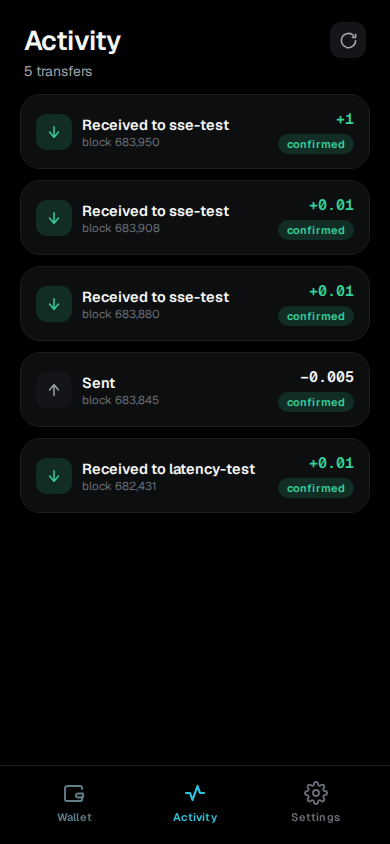
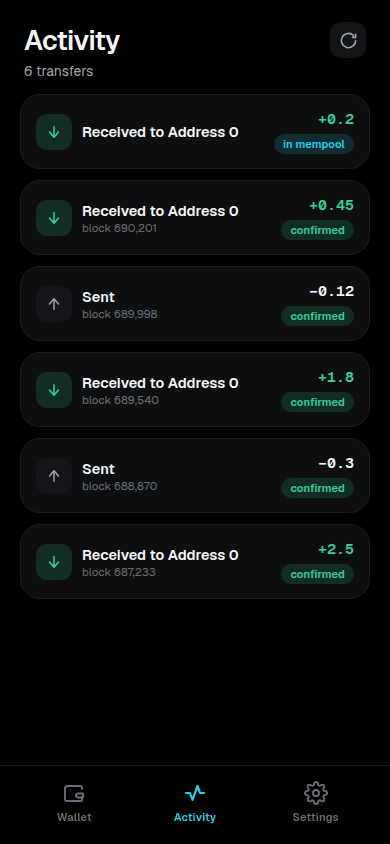
v0.5.0: Seoul default, anonymous indexer, bilingual screenshot gallery
- Settings: indexer modal placeholder now points at the Seoul default
  (64.176.231.198:9335), matching the new bundled node + indexer.
- devmock: serve realistic mock get_status / get_address_history /
  get_address_mempool / get_transaction so browser dev mode renders a
  populated wallet + a From/To Activity feed (dev-only; never ships in a
  real Tauri build).
- README: refresh the screen gallery and add a full English + 简体中文
  set, showing the indexer-backed Activity (From/To) and the live
  EN / 中文 language switch.
- Bump to v0.5.0.

diff --git a/src/lib/devmock.ts b/src/lib/devmock.ts
@@ -558,13 +558,63 @@ export const devmock = {
 
       case "get_status":
         return {
-          version: "dev-mock",
+          version: "1.10.0",
           uptime_secs: 0,
           wallet_count: s.addresses.length,
           in_flight_transfers: 0,
           in_flight_utxos: 0,
+          // New field shape (upstream_ok / upstream_nodes / tip) the Settings
+          // screen reads. A healthy, synced dev daemon.
+          upstream_ok: true,
+          upstream_nodes: [s.nodeRpc],
+          tip: { height: 690_414, block_id: fakeHex("tip", 64) },
+          // Legacy nested shape kept for any older caller.
           upstream: { url: s.nodeRpc, mode: "dev-mock" },
         };
+
+      case "get_address_history": {
+        // Curated confirmed history for the FIRST address so the Activity feed
+        // renders a realistic received/sent mix with From/To counterparties in
+        // dev mode (the real indexer isn't reachable here). Other addresses
+        // return empty so the aggregate isn't double-counted.
+        const p = params as { address: string };
+        const first = s.addresses[0]?.address;
+        if (!first || p.address !== first) return { history: [] };
+        const peer = (seed: string) => fakeHex(`peer-${seed}`, 64);
+        const tx = (seed: string) => fakeHex(`tx-${seed}`, 64);
+        const amt = (exfer: number) => Math.round(exfer * EXFER_UNIT);
+        return {
+          history: [
+            { block_height: 690_201, tx_id: tx("a"), amount: amt(0.45), direction: "output", is_coinbase: false, counterparties: [peer("alice")] },
+            { block_height: 689_998, tx_id: tx("b"), amount: amt(0.12), direction: "input", is_coinbase: false, counterparties: [peer("bob")] },
+            { block_height: 689_540, tx_id: tx("c"), amount: amt(1.80), direction: "output", is_coinbase: false, counterparties: [peer("carol"), peer("dave")] },
+            { block_height: 688_870, tx_id: tx("d"), amount: amt(0.30), direction: "input", is_coinbase: false, counterparties: [peer("erin")] },
+            { block_height: 687_233, tx_id: tx("e"), amount: amt(2.50), direction: "output", is_coinbase: false, counterparties: [peer("frank")] },
+          ],
+        };
+      }
+
+      case "get_address_mempool": {
+        // One live incoming pending tx on the first address — exercises the
+        // "in mempool" pill in the feed.
+        const p = params as { address: string };
+        const first = s.addresses[0]?.address;
+        const base = { address: p.address, tip_height: 690_414 };
+        if (!first || p.address !== first) return { ...base, mempool: [] };
+        return {
+          ...base,
+          mempool: [
+            { tx_id: fakeHex("tx-pending", 64), received: [{ output_index: 0, value: Math.round(0.2 * EXFER_UNIT) }] },
+          ],
+        };
+      }
+
+      case "get_transaction": {
+        // The pending tx reads as in-mempool; every other tx as confirmed.
+        const p = params as { tx_id: string };
+        if (p.tx_id === fakeHex("tx-pending", 64)) return { in_mempool: true };
+        return { in_mempool: false, block_height: 690_000 };
+      }
 
       case "get_balance": {
         const p = params as { address: string };

diff --git a/src/components/Settings.tsx b/src/components/Settings.tsx
@@ -772,7 +772,7 @@ function ChangeIndexerModal({
           className="field mono"
           value={url}
           onChange={(e) => setUrl(e.target.value)}
-          placeholder="http://198.13.38.245:9335"
+          placeholder="http://64.176.231.198:9335"
         />
       </Field>
     </Modal>

diff --git a/README.md b/README.md
@@ -26,23 +26,51 @@ bloat), a pure-black canvas with a single cyan accent, and Geist / Geist Mono.
 <table>
   <tr>
     <td align="center"><img src="docs/screenshots/wallet.png" width="160" alt="Wallet — balance and addresses" /></td>
+    <td align="center"><img src="docs/screenshots/activity.png" width="160" alt="Activity — From/To, on-chain history" /></td>
     <td align="center"><img src="docs/screenshots/send.png" width="160" alt="Send — multiple recipients" /></td>
     <td align="center"><img src="docs/screenshots/receive.png" width="160" alt="Receive — QR and address" /></td>
-    <td align="center"><img src="docs/screenshots/activity.png" width="160" alt="Activity — transaction history" /></td>
-    <td align="center"><img src="docs/screenshots/settings.png" width="160" alt="Settings — appearance, node, backup" /></td>
+    <td align="center"><img src="docs/screenshots/settings.png" width="160" alt="Settings — node, indexer, backup" /></td>
   </tr>
   <tr>
     <td align="center"><b>Wallet</b><br/>balance + addresses</td>
+    <td align="center"><b>Activity</b><br/>From / To · on-chain</td>
     <td align="center"><b>Send</b><br/>up to 16 recipients</td>
     <td align="center"><b>Receive</b><br/>QR + copy</td>
-    <td align="center"><b>Activity</b><br/>on-chain history</td>
-    <td align="center"><b>Settings</b><br/>theme · node · backup</td>
+    <td align="center"><b>Settings</b><br/>node · indexer · backup</td>
   </tr>
 </table>
 
 A bottom tab bar — **Wallet** / **Activity** / **Settings**. Receive, Send, and
 each address's detail open as full-screen sheets. First launch creates a
 password-encrypted wallet or restores one from a `.vault` backup.
+
+**Activity** is backed by the [exfer-indexer](https://github.com/exfer-stack/exfer-indexer):
+a complete per-address on-chain timeline with real tx ids and native **From / To**
+counterparties — including deposits that landed while the app was closed. The
+indexer endpoint is configurable in Settings (it serves public read-only chain
+data, so no token is needed).
+
+### Bilingual — English / 简体中文
+
+The whole UI switches live between English and Chinese (tap **EN / 中文** in
+Settings → Appearance). Same screens, fully localized:
+
+<table>
+  <tr>
+    <td align="center"><img src="docs/screenshots/wallet-zh.png" width="160" alt="钱包" /></td>
+    <td align="center"><img src="docs/screenshots/activity-zh.png" width="160" alt="动态" /></td>
+    <td align="center"><img src="docs/screenshots/send-zh.png" width="160" alt="发送" /></td>
+    <td align="center"><img src="docs/screenshots/receive-zh.png" width="160" alt="收款" /></td>
+    <td align="center"><img src="docs/screenshots/settings-zh.png" width="160" alt="设置" /></td>
+  </tr>
+  <tr>
+    <td align="center"><b>钱包</b><br/>余额 + 地址</td>
+    <td align="center"><b>动态</b><br/>来自 / 至 · 链上</td>
+    <td align="center"><b>发送</b><br/>最多 16 个收款人</td>
+    <td align="center"><b>收款</b><br/>二维码 + 复制</td>
+    <td align="center"><b>设置</b><br/>节点 · 索引器 · 备份</td>
+  </tr>
+</table>
 
 ## What you can do
 
